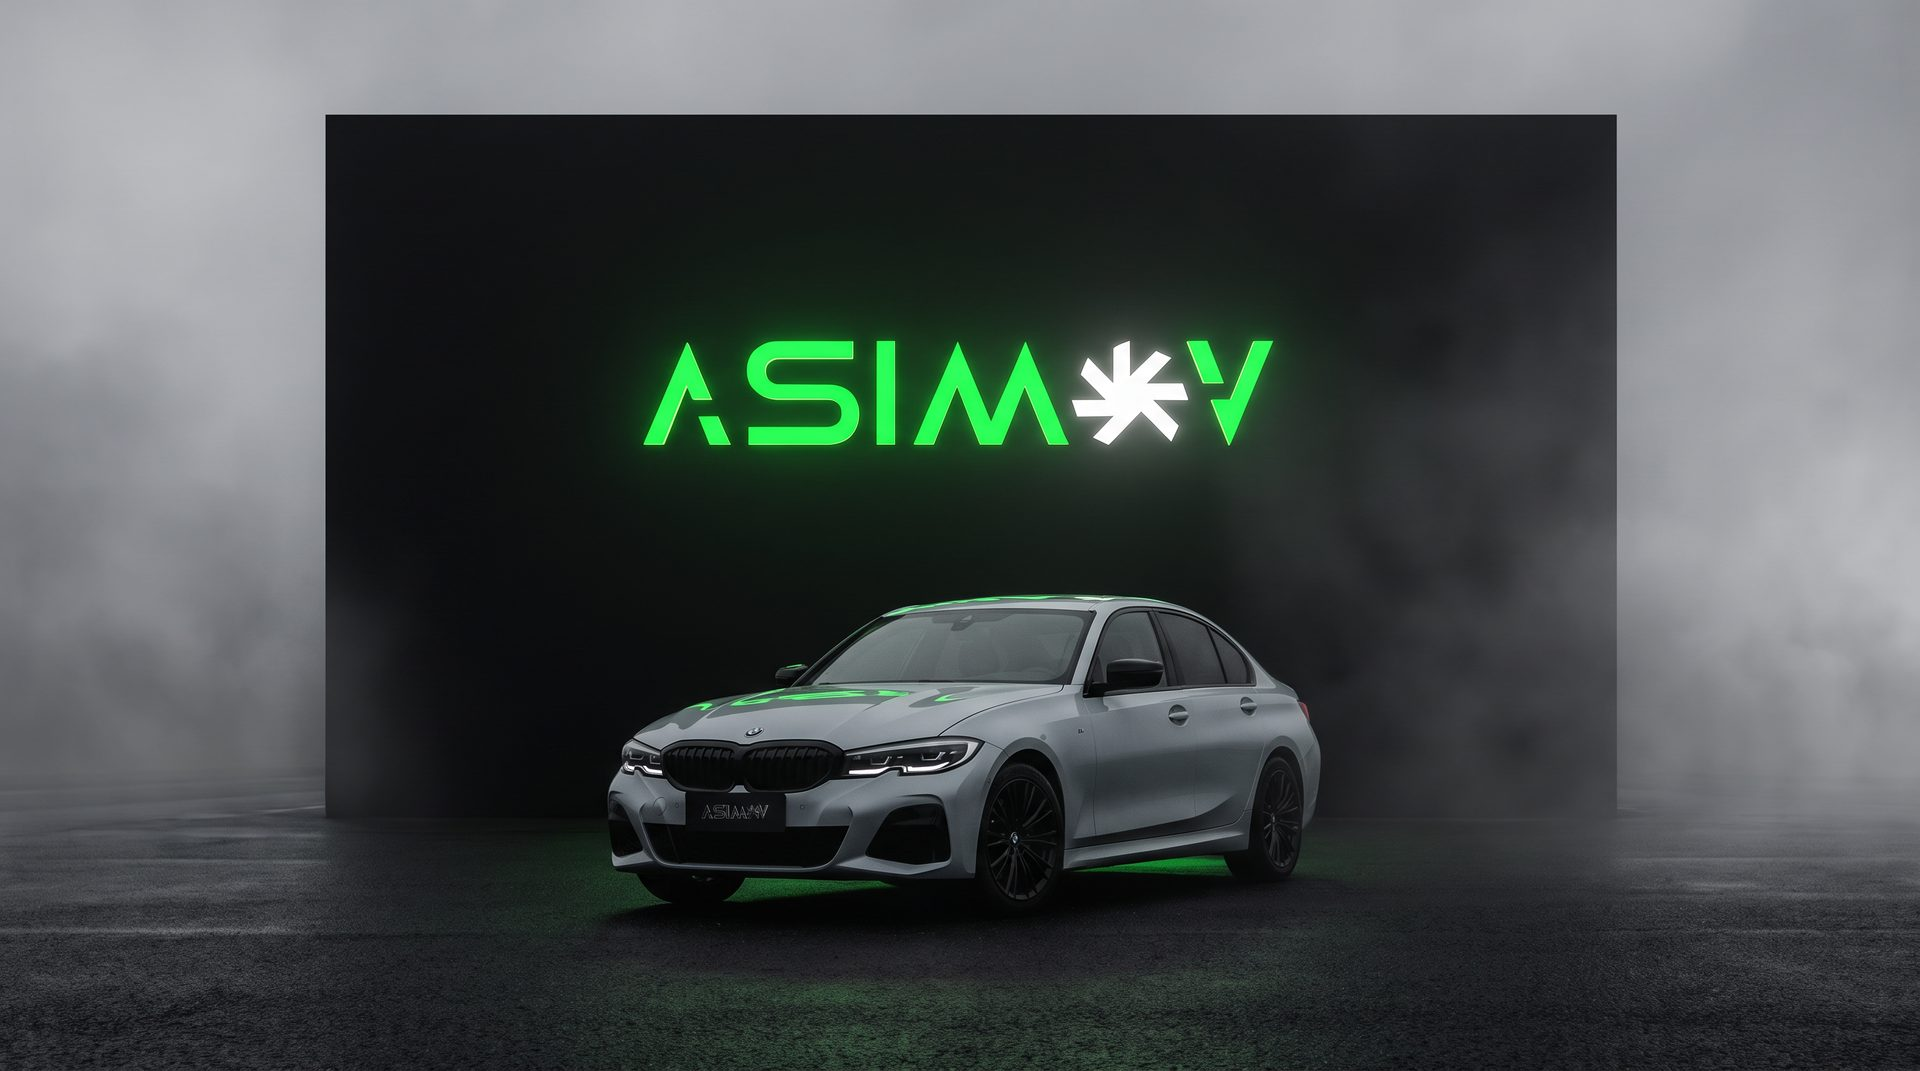
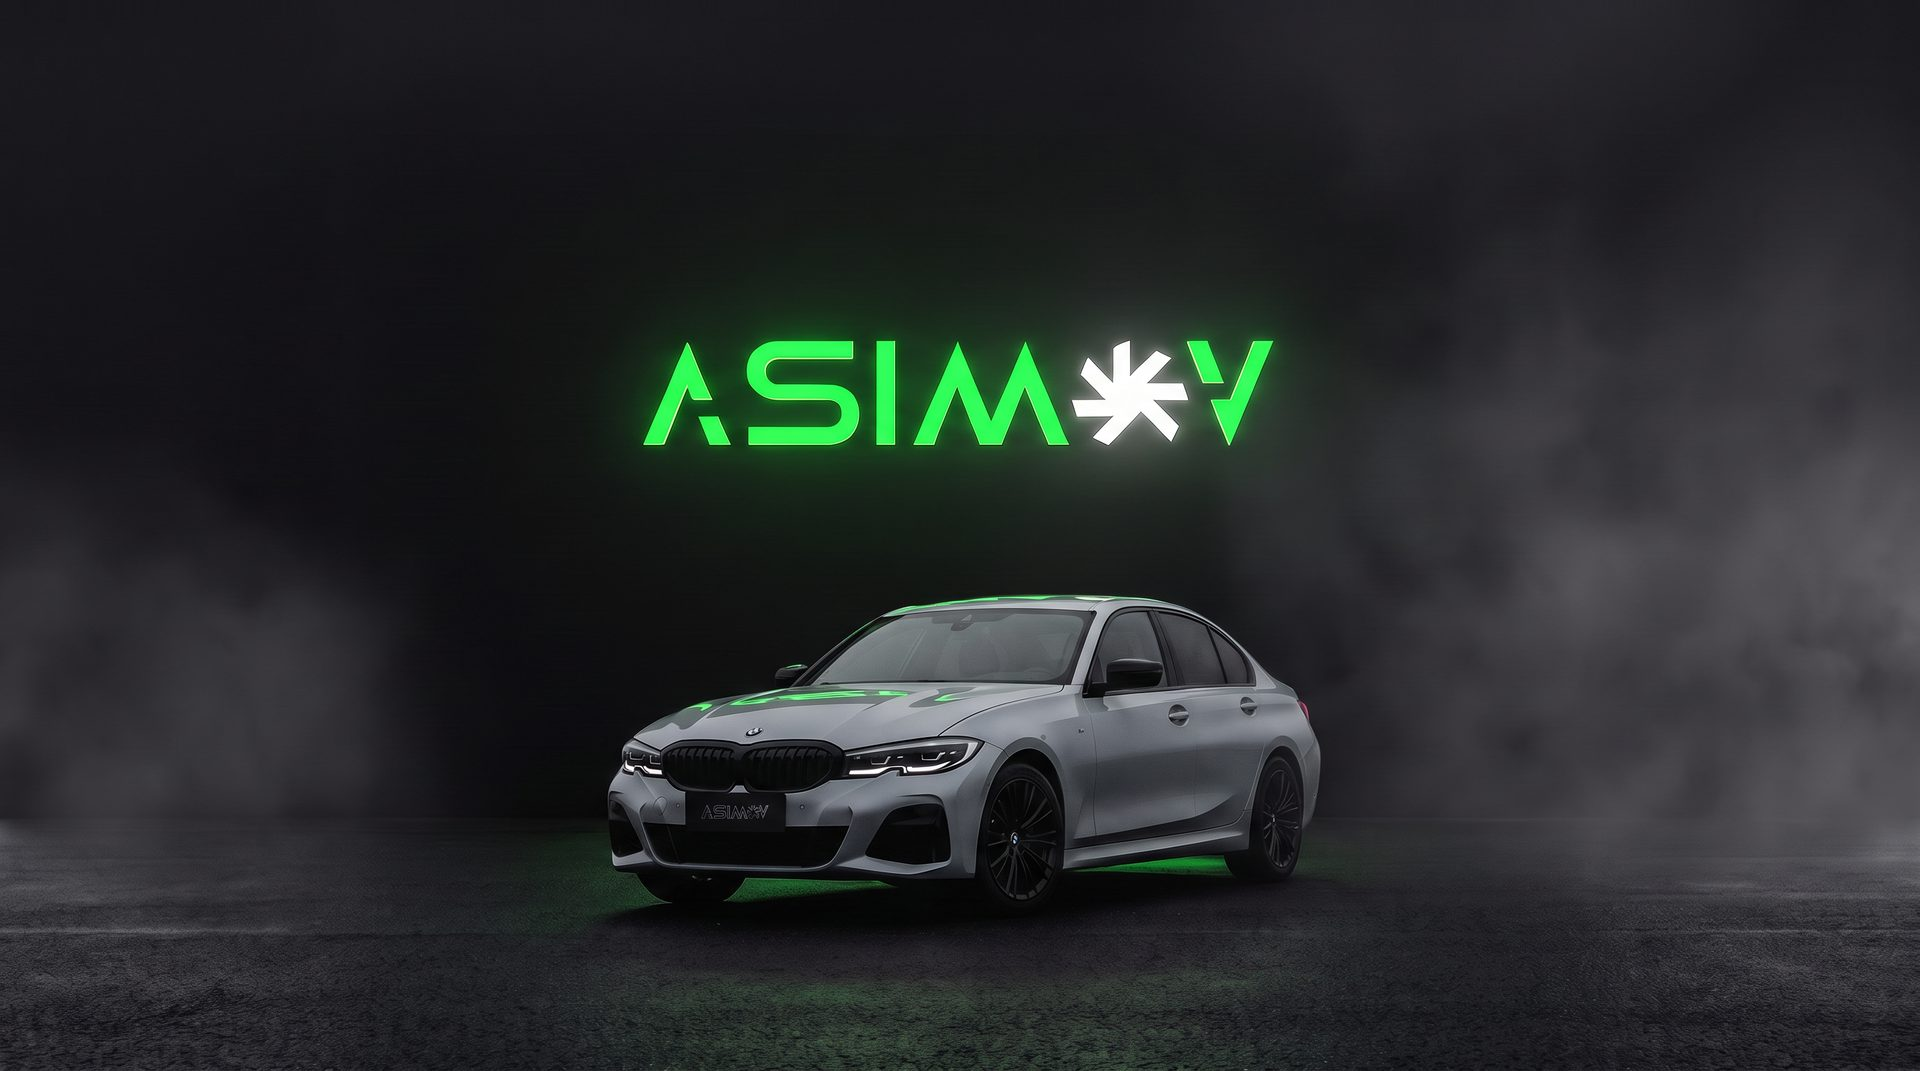
Portadas completas en 16:9, Asimov con fondo continuo y sin Portfolio 2024

diff --git a/projects.html b/projects.html
@@ -37,55 +37,51 @@
   </div>
 </section>
 <section class="wrap">
-  <div class="filters" role="group" aria-label="Filter projects"><button type="button" data-filter="all" aria-pressed="true"><span data-en="All" data-es="Todos">All</span><sup>12</sup></button><button type="button" data-filter="branding" aria-pressed="false"><span>Branding</span><sup>06</sup></button><button type="button" data-filter="packaging" aria-pressed="false"><span>Packaging</span><sup>02</sup></button><button type="button" data-filter="digital" aria-pressed="false"><span>Digital</span><sup>02</sup></button><button type="button" data-filter="illustration" aria-pressed="false"><span data-en="Illustration" data-es="Ilustración">Illustration</span><sup>02</sup></button><button type="button" data-filter="logo" aria-pressed="false"><span>Logo</span><sup>01</sup></button></div>
+  <div class="filters" role="group" aria-label="Filter projects"><button type="button" data-filter="all" aria-pressed="true"><span data-en="All" data-es="Todos">All</span><sup>11</sup></button><button type="button" data-filter="branding" aria-pressed="false"><span>Branding</span><sup>05</sup></button><button type="button" data-filter="packaging" aria-pressed="false"><span>Packaging</span><sup>02</sup></button><button type="button" data-filter="digital" aria-pressed="false"><span>Digital</span><sup>02</sup></button><button type="button" data-filter="illustration" aria-pressed="false"><span data-en="Illustration" data-es="Ilustración">Illustration</span><sup>02</sup></button><button type="button" data-filter="logo" aria-pressed="false"><span>Logo</span><sup>01</sup></button></div>
   <div class="plist"><a class="pitem" href="project/asimov.html" data-cat="branding">
-  <div class="pitem-img" data-parallax><img src="assets/covers/asimov.jpg" alt="Asimov Branding" loading="lazy"></div>
+  <div class="pitem-img" data-clip><img src="assets/covers/asimov.jpg" alt="Asimov Branding" loading="lazy"></div>
   <h2>Asimov Branding</h2>
   <div class="meta"><span>Branding</span><i></i><span>2024</span></div>
 </a><a class="pitem" href="project/curious-cafe.html" data-cat="branding">
-  <div class="pitem-img" data-parallax><img src="assets/covers/curious-cafe.jpg" alt="Curious Cafe Branding" loading="lazy"></div>
+  <div class="pitem-img" data-clip><img src="assets/covers/curious-cafe.jpg" alt="Curious Cafe Branding" loading="lazy"></div>
   <h2>Curious Cafe Branding</h2>
   <div class="meta"><span>Branding</span><i></i><span>2023</span></div>
 </a><a class="pitem" href="project/period-app.html" data-cat="digital">
-  <div class="pitem-img" data-parallax><img src="assets/covers/period-app.jpg" alt="Period App" loading="lazy"></div>
+  <div class="pitem-img" data-clip><img src="assets/covers/period-app.jpg" alt="Period App" loading="lazy"></div>
   <h2>Period App</h2>
   <div class="meta"><span data-en="UI / App Design" data-es="UI / Diseño de App">UI / App Design</span><i></i><span>2022</span></div>
 </a><a class="pitem" href="project/siker.html" data-cat="branding">
-  <div class="pitem-img" data-parallax><img src="assets/covers/siker.jpg" alt="Siker Nutrition" loading="lazy"></div>
+  <div class="pitem-img" data-clip><img src="assets/covers/siker.jpg" alt="Siker Nutrition" loading="lazy"></div>
   <h2>Siker Nutrition</h2>
   <div class="meta"><span>Branding</span><i></i><span>2021</span></div>
 </a><a class="pitem" href="project/zen.html" data-cat="packaging">
-  <div class="pitem-img" data-parallax><img src="assets/covers/zen.jpg" alt="Zen Infusiones Naturales" loading="lazy"></div>
+  <div class="pitem-img" data-clip><img src="assets/covers/zen.jpg" alt="Zen Infusiones Naturales" loading="lazy"></div>
   <h2>Zen Infusiones Naturales</h2>
   <div class="meta"><span>Packaging</span><i></i><span>2023</span></div>
 </a><a class="pitem" href="project/kenzo.html" data-cat="packaging">
-  <div class="pitem-img" data-parallax><img src="assets/covers/kenzo.jpg" alt="Kenzo Galletas" loading="lazy"></div>
+  <div class="pitem-img" data-clip><img src="assets/covers/kenzo.jpg" alt="Kenzo Galletas" loading="lazy"></div>
   <h2>Kenzo Galletas</h2>
   <div class="meta"><span>Packaging</span><i></i><span>2022</span></div>
 </a><a class="pitem" href="project/cryptomonitor.html" data-cat="digital branding">
-  <div class="pitem-img" data-parallax><img src="assets/covers/cryptomonitor.jpg" alt="Cryptomonitor" loading="lazy"></div>
+  <div class="pitem-img" data-clip><img src="assets/covers/cryptomonitor.jpg" alt="Cryptomonitor" loading="lazy"></div>
   <h2>Cryptomonitor</h2>
   <div class="meta"><span>Branding &amp; Web</span><i></i><span>2021</span></div>
 </a><a class="pitem" href="project/arka.html" data-cat="logo">
-  <div class="pitem-img" data-parallax><img src="assets/covers/arka.jpg" alt="ARKA Logotipo" loading="lazy"></div>
+  <div class="pitem-img" data-clip><img src="assets/covers/arka.jpg" alt="ARKA Logotipo" loading="lazy"></div>
   <h2>ARKA Logotipo</h2>
   <div class="meta"><span>Logo</span><i></i><span>2022</span></div>
 </a><a class="pitem" href="https://www.behance.net/gallery/162471669/Arepitas-Venezolanas-con-Carlitos-Cuento-ilustrado" target="_blank" rel="noopener" data-cat="illustration">
-  <div class="pitem-img" data-parallax><img src="assets/covers/arepitas.jpg" alt="Arepitas Venezolanas" loading="lazy"></div>
+  <div class="pitem-img" data-clip><img src="assets/covers/arepitas.jpg" alt="Arepitas Venezolanas" loading="lazy"></div>
   <h2>Arepitas Venezolanas</h2>
   <div class="meta"><span data-en="Illustration" data-es="Ilustración">Illustration</span><i></i><span class="ext">Behance<svg viewBox="0 0 16 16" aria-hidden="true"><path d="M3.5 12.5 12.5 3.5M5 3.5h7.5V11" fill="none" stroke="currentColor" stroke-width="1.6" stroke-linecap="round" stroke-linejoin="round"/></svg></span></div>
 </a><a class="pitem" href="https://www.behance.net/gallery/146038337/Pack-de-10-iconos-de-gatitos" target="_blank" rel="noopener" data-cat="illustration">
-  <div class="pitem-img" data-parallax><img src="assets/covers/gatitos.jpg" alt="Pack Iconos Gatitos" loading="lazy"></div>
+  <div class="pitem-img" data-clip><img src="assets/covers/gatitos.jpg" alt="Pack Iconos Gatitos" loading="lazy"></div>
   <h2>Pack Iconos Gatitos</h2>
   <div class="meta"><span data-en="Illustration" data-es="Ilustración">Illustration</span><i></i><span class="ext">Behance<svg viewBox="0 0 16 16" aria-hidden="true"><path d="M3.5 12.5 12.5 3.5M5 3.5h7.5V11" fill="none" stroke="currentColor" stroke-width="1.6" stroke-linecap="round" stroke-linejoin="round"/></svg></span></div>
 </a><a class="pitem" href="https://www.behance.net/gallery/142601487/Neptuno-Card" target="_blank" rel="noopener" data-cat="branding">
-  <div class="pitem-img" data-parallax><img src="assets/covers/neptuno.jpg" alt="Neptuno Card" loading="lazy"></div>
+  <div class="pitem-img" data-clip><img src="assets/covers/neptuno.jpg" alt="Neptuno Card" loading="lazy"></div>
   <h2>Neptuno Card</h2>
   <div class="meta"><span>Branding</span><i></i><span class="ext">Behance<svg viewBox="0 0 16 16" aria-hidden="true"><path d="M3.5 12.5 12.5 3.5M5 3.5h7.5V11" fill="none" stroke="currentColor" stroke-width="1.6" stroke-linecap="round" stroke-linejoin="round"/></svg></span></div>
-</a><a class="pitem" href="https://www.behance.net/gallery/174794993/Portfolio" target="_blank" rel="noopener" data-cat="branding">
-  <div class="pitem-img" data-parallax><img src="assets/covers/portfolio-2024.jpg" alt="Portfolio 2024" loading="lazy"></div>
-  <h2>Portfolio 2024</h2>
-  <div class="meta"><span data-en="Portfolio" data-es="Portafolio">Portfolio</span><i></i><span class="ext">Behance<svg viewBox="0 0 16 16" aria-hidden="true"><path d="M3.5 12.5 12.5 3.5M5 3.5h7.5V11" fill="none" stroke="currentColor" stroke-width="1.6" stroke-linecap="round" stroke-linejoin="round"/></svg></span></div>
 </a></div>
 </section>
 </main>

diff --git a/assets/site.css b/assets/site.css
@@ -247,8 +247,8 @@ ul, ol { margin: 0; padding: 0; list-style: none; }
 .filters button[aria-pressed="true"] { color: var(--ink); border-color: var(--ink); }
 .plist { display: flex; flex-direction: column; gap: 110px; padding-bottom: 60px; }
 .pitem[hidden] { display: none; }
-.pitem-img { overflow: hidden; aspect-ratio: 1400 / 560; background: var(--soft); }
-.pitem-img img { width: 100%; height: 120%; object-fit: cover; transition: transform 1.1s cubic-bezier(.2,.7,.2,1); }
+.pitem-img { overflow: hidden; aspect-ratio: 16 / 9; background: var(--soft); }
+.pitem-img img { width: 100%; height: 100%; object-fit: cover; transition: transform 1.1s cubic-bezier(.2,.7,.2,1); }
 .pitem:hover .pitem-img img { transform: scale(1.03); }
 .pitem h2 { font-size: clamp(28px, 2.6vw, 38px); font-weight: 400; margin-top: 26px; line-height: 1.2; }
 .pitem .meta { display: flex; align-items: center; gap: 16px; font-size: 15px; color: var(--muted); margin-top: 10px; }
@@ -261,8 +261,8 @@ ul, ol { margin: 0; padding: 0; list-style: none; }
 .d-cols { display: grid; grid-template-columns: 1fr 1fr; column-gap: 40px; margin-top: 50px; }
 .d-cols p { font-size: clamp(18px, 1.7vw, 24px); line-height: 1.35; color: #444; }
 .d-cover { position: relative; margin-bottom: 200px; }
-.d-cover-img { overflow: hidden; aspect-ratio: 1400 / 880; background: var(--soft); }
-.d-cover-img img { width: 100%; height: 115%; object-fit: cover; }
+.d-cover-img { overflow: hidden; aspect-ratio: 16 / 9; background: var(--soft); }
+.d-cover-img img { width: 100%; height: 100%; object-fit: cover; }
 .d-card { position: absolute; right: 93px; bottom: -100px; width: 432px; background: var(--paper); box-shadow: 0 30px 60px rgba(0,0,0,.08); }
 .d-card dl { margin: 0; padding: 22px 40px; }
 .d-card div { display: grid; grid-template-columns: 126px 1fr; padding: 22px 0; border-bottom: 1px solid #e6e6e6; font-size: 18px; }
@@ -343,11 +343,9 @@ ul, ol { margin: 0; padding: 0; list-style: none; }
   .page-hero-grid { grid-template-columns: 1fr; }
   .page-title .row2 { gap: 20px; }
   .plist { gap: 70px; }
-  .pitem-img { aspect-ratio: 4 / 3; }
   .d-hero { padding: 80px 0 50px; }
   .d-cols { grid-template-columns: 1fr; row-gap: 20px; }
   .d-cover { margin-bottom: 60px; }
-  .d-cover-img { aspect-ratio: 4 / 3; }
   .d-card { position: static; width: auto; box-shadow: none; border: 1px solid #e6e6e6; border-top: 0; }
   .d-card dl { padding: 8px 20px; }
   .d-card div { grid-template-columns: 110px 1fr; font-size: 16px; }

diff --git a/project/curious-cafe.html b/project/curious-cafe.html
@@ -34,7 +34,7 @@
   </div>
 </section>
 <section class="wrap d-cover">
-  <div class="d-cover-img" data-parallax><img src="../assets/covers/curious-cafe.jpg" alt="Curious Cafe Branding"></div>
+  <div class="d-cover-img" data-clip><img src="../assets/covers/curious-cafe.jpg" alt="Curious Cafe Branding"></div>
   <div class="d-card">
     <dl>
       <div><dt><span data-en="Client" data-es="Cliente">Client</span></dt><dd>Curious</dd></div>

diff --git a/project/cryptomonitor.html b/project/cryptomonitor.html
@@ -34,7 +34,7 @@
   </div>
 </section>
 <section class="wrap d-cover">
-  <div class="d-cover-img" data-parallax><img src="../assets/covers/cryptomonitor.jpg" alt="Cryptomonitor"></div>
+  <div class="d-cover-img" data-clip><img src="../assets/covers/cryptomonitor.jpg" alt="Cryptomonitor"></div>
   <div class="d-card">
     <dl>
       <div><dt><span data-en="Client" data-es="Cliente">Client</span></dt><dd>Cryptomonitor</dd></div>

diff --git a/project/zen.html b/project/zen.html
@@ -34,7 +34,7 @@
   </div>
 </section>
 <section class="wrap d-cover">
-  <div class="d-cover-img" data-parallax><img src="../assets/covers/zen.jpg" alt="Zen Infusiones Naturales"></div>
+  <div class="d-cover-img" data-clip><img src="../assets/covers/zen.jpg" alt="Zen Infusiones Naturales"></div>
   <div class="d-card">
     <dl>
       <div><dt><span data-en="Client" data-es="Cliente">Client</span></dt><dd>Zen</dd></div>

diff --git a/project/asimov.html b/project/asimov.html
@@ -34,7 +34,7 @@
   </div>
 </section>
 <section class="wrap d-cover">
-  <div class="d-cover-img" data-parallax><img src="../assets/covers/asimov.jpg" alt="Asimov Branding"></div>
+  <div class="d-cover-img" data-clip><img src="../assets/covers/asimov.jpg" alt="Asimov Branding"></div>
   <div class="d-card">
     <dl>
       <div><dt><span data-en="Client" data-es="Cliente">Client</span></dt><dd>Asimov</dd></div>

diff --git a/project/period-app.html b/project/period-app.html
@@ -34,7 +34,7 @@
   </div>
 </section>
 <section class="wrap d-cover">
-  <div class="d-cover-img" data-parallax><img src="../assets/covers/period-app.jpg" alt="Period App"></div>
+  <div class="d-cover-img" data-clip><img src="../assets/covers/period-app.jpg" alt="Period App"></div>
   <div class="d-card">
     <dl>
       <div><dt><span data-en="Client" data-es="Cliente">Client</span></dt><dd>Period</dd></div>

diff --git a/project/siker.html b/project/siker.html
@@ -34,7 +34,7 @@
   </div>
 </section>
 <section class="wrap d-cover">
-  <div class="d-cover-img" data-parallax><img src="../assets/covers/siker.jpg" alt="Siker Nutrition"></div>
+  <div class="d-cover-img" data-clip><img src="../assets/covers/siker.jpg" alt="Siker Nutrition"></div>
   <div class="d-card">
     <dl>
       <div><dt><span data-en="Client" data-es="Cliente">Client</span></dt><dd>Siker</dd></div>

diff --git a/project/kenzo.html b/project/kenzo.html
@@ -34,7 +34,7 @@
   </div>
 </section>
 <section class="wrap d-cover">
-  <div class="d-cover-img" data-parallax><img src="../assets/covers/kenzo.jpg" alt="Kenzo Galletas"></div>
+  <div class="d-cover-img" data-clip><img src="../assets/covers/kenzo.jpg" alt="Kenzo Galletas"></div>
   <div class="d-card">
     <dl>
       <div><dt><span data-en="Client" data-es="Cliente">Client</span></dt><dd>Kenzo</dd></div>

diff --git a/project/arka.html b/project/arka.html
@@ -34,7 +34,7 @@
   </div>
 </section>
 <section class="wrap d-cover">
-  <div class="d-cover-img" data-parallax><img src="../assets/covers/arka.jpg" alt="ARKA Logotipo"></div>
+  <div class="d-cover-img" data-clip><img src="../assets/covers/arka.jpg" alt="ARKA Logotipo"></div>
   <div class="d-card">
     <dl>
       <div><dt><span data-en="Client" data-es="Cliente">Client</span></dt><dd>ARKA</dd></div>

diff --git a/src/build.py b/src/build.py
@@ -317,14 +317,14 @@ def build_projects():
         for f in p['filter'].split():
             counts[f] += 1
         items.append(f'''<a class="pitem" href="{project_link(p, rel)}" data-cat="{p['filter']}">
-  <div class="pitem-img" data-parallax><img src="{a(src(p['cover'], rel))}" alt="{a(p['title'])}" loading="lazy"></div>
+  <div class="pitem-img" data-clip><img src="{a(src(p['cover'], rel))}" alt="{a(p['title'])}" loading="lazy"></div>
   <h2>{escape(p['title'])}</h2>
   <div class="meta">{tb(p['category'])}<i></i><span>{escape(p['year'])}</span></div>
 </a>''')
     for e in EXTERNAL:
         counts[e['filter']] += 1
         items.append(f'''<a class="pitem" href="{a(e['url'])}" target="_blank" rel="noopener" data-cat="{e['filter']}">
-  <div class="pitem-img" data-parallax><img src="{a(src(e['cover'], rel))}" alt="{a(e['title'])}" loading="lazy"></div>
+  <div class="pitem-img" data-clip><img src="{a(src(e['cover'], rel))}" alt="{a(e['title'])}" loading="lazy"></div>
   <h2>{escape(e['title'])}</h2>
   <div class="meta">{tb(e['category'])}<i></i><span class="ext">Behance{ARROW_NE}</span></div>
 </a>''')
@@ -396,7 +396,7 @@ def build_detail(i):
   </div>
 </section>
 <section class="wrap d-cover">
-  <div class="d-cover-img" data-parallax><img src="{a(src(p['cover'], rel))}" alt="{a(title)}"></div>
+  <div class="d-cover-img" data-clip><img src="{a(src(p['cover'], rel))}" alt="{a(title)}"></div>
   <div class="d-card">
     <dl>
       <div><dt>{t('Client', 'Cliente')}</dt><dd>{escape(p['client'] or title)}</dd></div>
